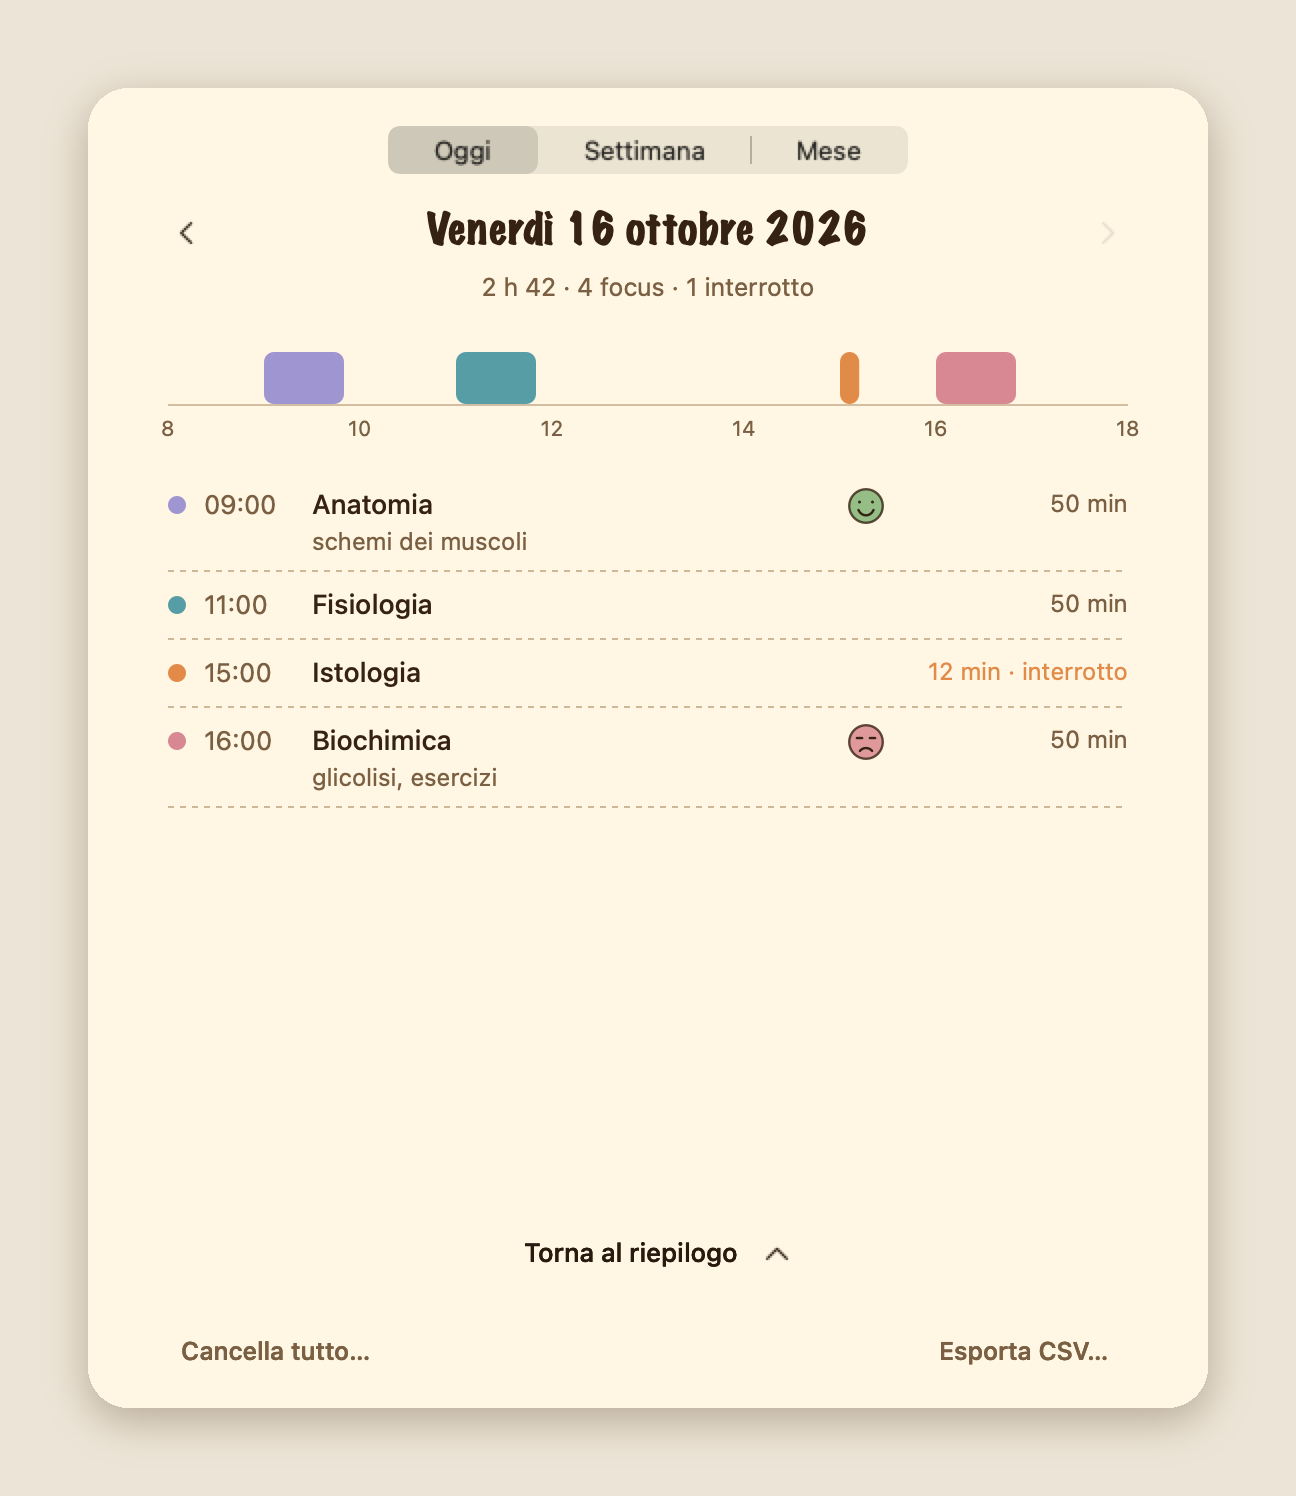
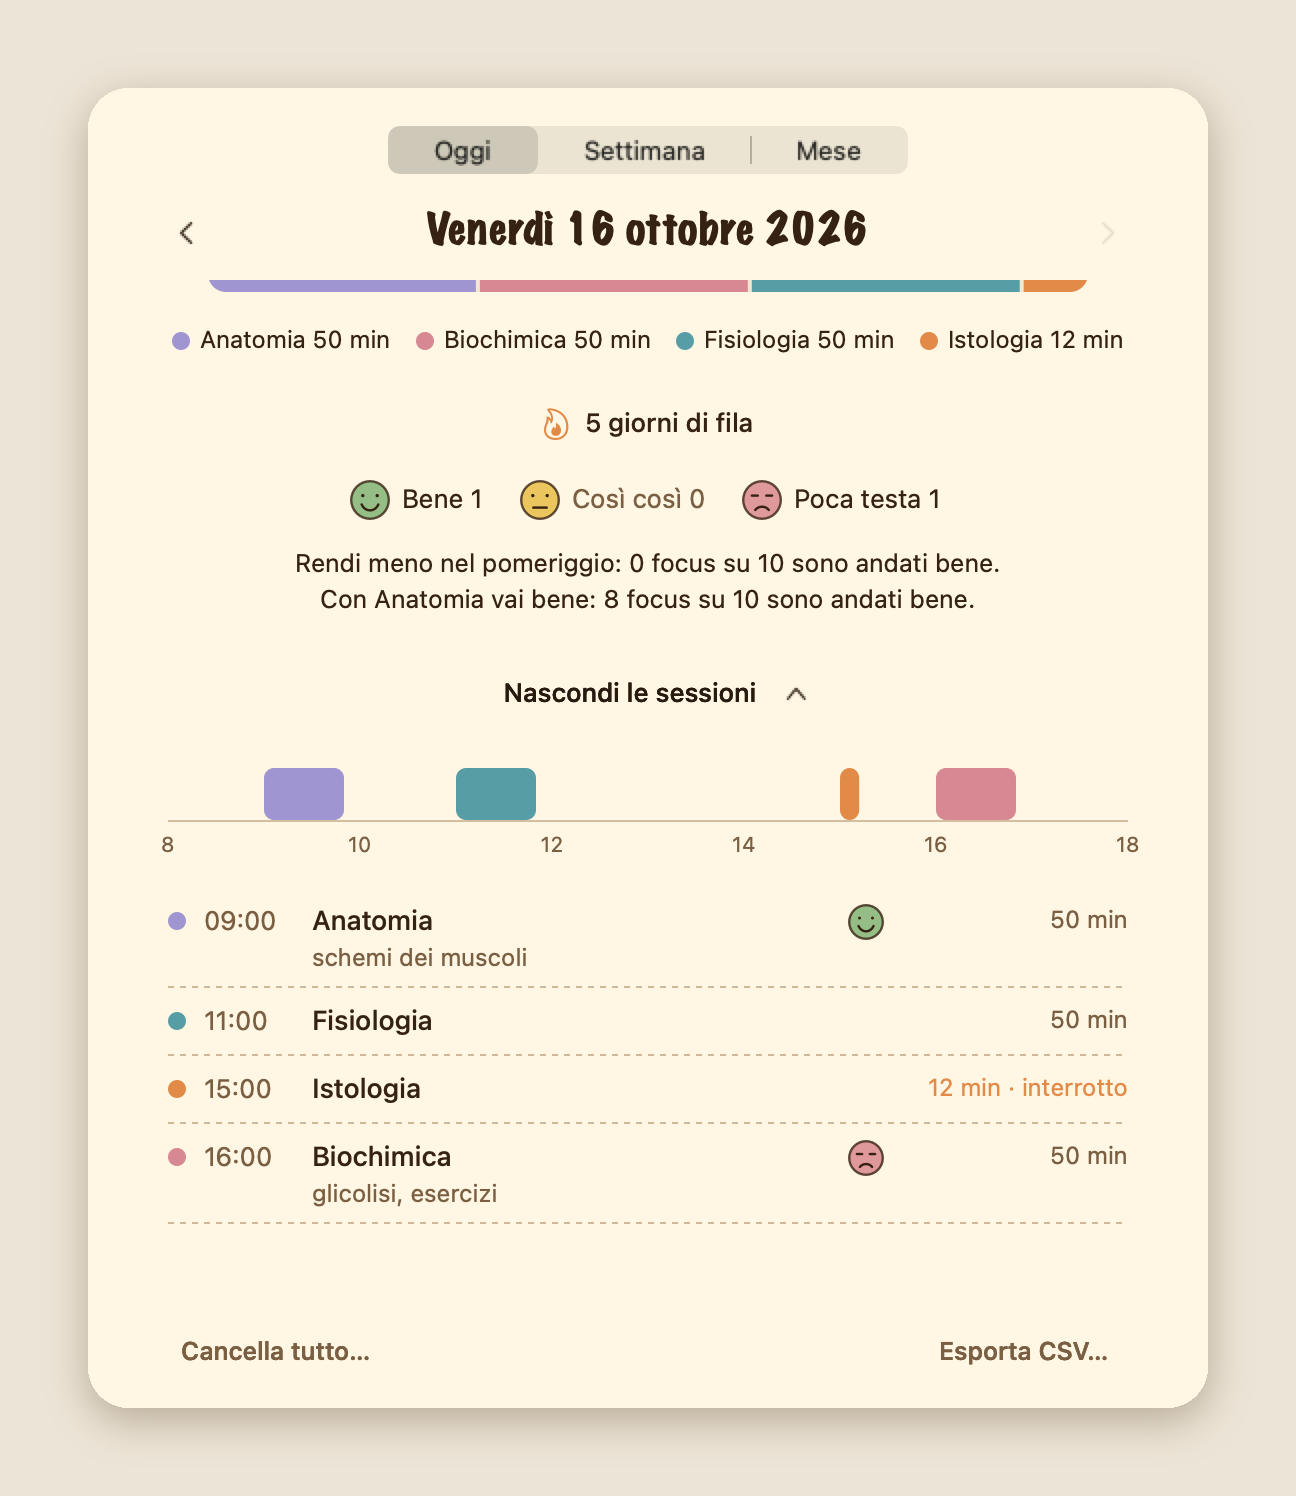
Statistiche: le sessioni in una tendina sotto il riepilogo, nella stessa pagina
- Mostra le sessioni apre la tendina sotto il pulsante, il riepilogo resta sopra
- la finestra resta della stessa altezza: la pagina scorre con la rotella
- schermata del README aggiornata

diff --git a/Sources/FocusFriends/DashboardWindow.swift b/Sources/FocusFriends/DashboardWindow.swift
@@ -15,6 +15,18 @@ private struct SummaryLayout {
     var streakY: CGFloat?
     var reflectY: CGFloat?
     var insightsY: CGFloat?
+    /// Dove finisce il riepilogo (in coordinate della pagina): sotto c'è il pulsante della tendina.
+    var contentEnd: CGFloat = 130
+}
+
+/// La pagina che scorre: il riepilogo, il pulsante della tendina e, aperte, le sessioni.
+private final class PageView: NSView {
+    override var isFlipped: Bool { true }
+    weak var owner: DashboardView?
+
+    override func draw(_ dirtyRect: NSRect) {
+        owner?.drawSummary()
+    }
 }
 
 /// La finestra delle statistiche. Il riepilogo è calmo: un grande numero, una barra con le materie, i giorni di
@@ -37,9 +49,14 @@ final class DashboardView: NSView {
     private var insights: [String] = []
     private var totalRated = 0
     private var layout = SummaryLayout()
-    /// Sta mostrando il diario delle sessioni invece del riepilogo.
+    /// La tendina delle sessioni è aperta (sotto il riepilogo, nella stessa pagina).
     private var showsDiary = false
-    private var diaryScroll: NSScrollView?
+    private let scroll = NSScrollView()
+    private let page = PageView()
+    private var diary: DiaryView?
+    /// Dove comincia la pagina che scorre, nella finestra (sotto l'intestazione).
+    private static let pageTop: CGFloat = 96
+    private static let footerHeight: CGFloat = 56
 
     private let segmented = NSSegmentedControl(labels: ["Oggi", "Settimana", "Mese"], trackingMode: .selectOne, target: nil, action: nil)
     private let previousButton = NSButton()
@@ -87,13 +104,27 @@ final class DashboardView: NSView {
             button.frame = frame
             addSubview(button)
         }
+        // La pagina che scorre (con la rotella) tra l'intestazione e i pulsanti in fondo.
+        let visibleHeight = Self.size.height - Self.pageTop - Self.footerHeight
+        scroll.frame = NSRect(x: 0, y: Self.pageTop, width: width, height: visibleHeight)
+        scroll.hasVerticalScroller = true
+        scroll.autohidesScrollers = true
+        scroll.drawsBackground = false
+        scroll.borderType = .noBorder
+        page.frame = NSRect(x: 0, y: 0, width: width, height: visibleHeight)
+        page.owner = self
+        scroll.documentView = page
+        addSubview(scroll)
+
         let bottom = Self.size.height - 40
         style(deleteButton, "Cancella tutto…", color: Paper.inkLight, action: #selector(deleteEverything),
               frame: NSRect(x: Self.margin - 6, y: bottom, width: 120, height: 24))
         style(exportButton, "Esporta CSV…", color: Paper.inkLight, action: #selector(exportCSV),
               frame: NSRect(x: width - Self.margin - 110, y: bottom, width: 116, height: 24))
-        style(sessionsButton, "Mostra le sessioni", color: Paper.ink, action: #selector(toggleDiary),
-              frame: NSRect(x: (width - 220) / 2, y: Self.size.height - 92, width: 220, height: 28))
+        sessionsButton.isBordered = false
+        sessionsButton.target = self
+        sessionsButton.action = #selector(toggleDiary)
+        page.addSubview(sessionsButton)
 
         log.addObserver { [weak self] in self?.reload() }
         reload()
@@ -114,9 +145,11 @@ final class DashboardView: NSView {
         nextButton.alphaValue = period.contains(today) ? 0.25 : 1
         layout = buildLayout()
         if summary.sessions.isEmpty { showsDiary = false }
-        updateSessionsButton()
-        rebuildDiary()
+        relayoutPage()
+        scroll.contentView.scroll(to: .zero)
+        scroll.reflectScrolledClipView(scroll.contentView)
         needsDisplay = true
+        page.needsDisplay = true
     }
 
     func select(_ newKind: PeriodKind) {
@@ -143,13 +176,46 @@ final class DashboardView: NSView {
 
     @objc private func toggleDiary() {
         showsDiary.toggle()
+        relayoutPage()
+        page.needsDisplay = true
+        // Aperta: lascio un po' di riepilogo in alto e porto le sessioni in vista. Chiusa: resto dentro la pagina.
+        let maxOffset = max(page.frame.height - scroll.contentView.bounds.height, 0)
+        var offset = scroll.contentView.bounds.origin.y
+        if showsDiary { offset = sessionsButton.frame.minY - 96 }
+        scroll.contentView.scroll(to: NSPoint(x: 0, y: min(max(offset, 0), maxOffset)))
+        scroll.reflectScrolledClipView(scroll.contentView)
+    }
+
+    /// Sistema la pagina: il pulsante sotto il riepilogo, la tendina sotto il pulsante, e l'altezza che scorre.
+    private func relayoutPage() {
         updateSessionsButton()
-        rebuildDiary()
-        needsDisplay = true
+        diary?.removeFromSuperview()
+        diary = nil
+        let width = Self.size.width
+        let visibleHeight = Self.size.height - Self.pageTop - Self.footerHeight
+        var end = layout.contentEnd
+        if !summary.sessions.isEmpty {
+            let buttonY = layout.contentEnd + 22
+            sessionsButton.frame.origin = NSPoint(x: (width - sessionsButton.frame.width) / 2, y: buttonY)
+            end = buttonY + 28
+            if showsDiary {
+                let view = DiaryView(sessions: summary.sessions.sorted { $0.startTime(in: calendar) < $1.startTime(in: calendar) },
+                                     kind: kind, calendar: calendar, width: contentWidth + 24)
+                view.onSelect = { [weak self] id in
+                    guard let self, let session = self.log.sessions.first(where: { $0.id == id }) else { return }
+                    self.edit(session)
+                }
+                view.frame.origin = NSPoint(x: Self.margin - 12, y: end + 10)
+                page.addSubview(view)
+                diary = view
+                end = view.frame.maxY
+            }
+        }
+        page.frame = NSRect(x: 0, y: 0, width: width, height: max(visibleHeight, end + 24))
     }
 
     private func updateSessionsButton() {
-        let title = showsDiary ? "Torna al riepilogo" : "Mostra le sessioni"
+        let title = showsDiary ? "Nascondi le sessioni" : "Mostra le sessioni"
         let symbol = showsDiary ? "chevron.up" : "chevron.down"
         sessionsButton.attributedTitle = NSAttributedString(string: title + " ", attributes: [
             .font: NSFont.systemFont(ofSize: 13, weight: .medium), .foregroundColor: Paper.ink,
@@ -160,8 +226,7 @@ final class DashboardView: NSView {
         sessionsButton.isHidden = summary.sessions.isEmpty
         // Largo quanto serve, così la freccia sta vicino alla scritta.
         sessionsButton.sizeToFit()
-        let width = sessionsButton.frame.width + 12
-        sessionsButton.frame = NSRect(x: (Self.size.width - width) / 2, y: Self.size.height - 92, width: width, height: 28)
+        sessionsButton.frame.size = NSSize(width: sessionsButton.frame.width + 12, height: 28)
     }
 
     // MARK: - Testi
@@ -234,7 +299,7 @@ final class DashboardView: NSView {
     private func buildLayout() -> SummaryLayout {
         var l = SummaryLayout()
         guard summary.totalSeconds > 0 else { return l }
-        var y: CGFloat = 226
+        var y: CGFloat = 130
         if kind != .day {
             l.chartTop = y
             y += 56 + 20 + 22
@@ -279,7 +344,9 @@ final class DashboardView: NSView {
         if !insights.isEmpty {
             y += 8
             l.insightsY = y
+            y += CGFloat(insights.count) * 18
         }
+        l.contentEnd = y
         return l
     }
 
@@ -301,25 +368,22 @@ final class DashboardView: NSView {
         text(periodTitle, at: NSRect(x: Self.margin + 30, y: 60, width: width - 2 * Self.margin - 60, height: 26),
              font: Paper.markerFont(20), alignment: .center)
 
-        if showsDiary {
-            text("\(StudyStats.duration(seconds: summary.totalSeconds)) · \(subtitle.replacingOccurrences(of: "di studio · ", with: ""))",
-                 at: NSRect(x: Self.margin, y: 92, width: contentWidth, height: 18),
-                 font: NSFont.systemFont(ofSize: 12.5), color: Paper.inkLight, alignment: .center)
-            return
-        }
+    }
 
+    /// Il riepilogo, disegnato nella pagina che scorre (le coordinate partono dal suo bordo alto).
+    fileprivate func drawSummary() {
         // Il grande numero
         let empty = summary.totalSeconds == 0
         text(empty ? "0 min" : StudyStats.duration(seconds: summary.totalSeconds),
-             at: NSRect(x: Self.margin, y: 104, width: contentWidth, height: 72),
+             at: NSRect(x: Self.margin, y: 8, width: contentWidth, height: 72),
              font: Paper.markerFont(58), color: empty ? Paper.inkLight.withAlphaComponent(0.6) : Paper.ink, alignment: .center)
         if !subtitle.isEmpty {
-            text(subtitle, at: NSRect(x: Self.margin, y: 182, width: contentWidth, height: 20),
+            text(subtitle, at: NSRect(x: Self.margin, y: 86, width: contentWidth, height: 20),
                  font: NSFont.systemFont(ofSize: 14), color: Paper.inkLight, alignment: .center)
         }
         let more = secondary
         if !more.isEmpty {
-            text(more, at: NSRect(x: Self.margin, y: empty ? 182 : 202, width: contentWidth, height: 18),
+            text(more, at: NSRect(x: Self.margin, y: empty ? 86 : 106, width: contentWidth, height: 18),
                  font: NSFont.systemFont(ofSize: 12.5), color: Paper.inkLight.withAlphaComponent(0.85), alignment: .center)
         }
         guard !empty else { return }
@@ -432,28 +496,7 @@ final class DashboardView: NSView {
         }
     }
 
-    // MARK: - Il diario delle sessioni
-
-    private func rebuildDiary() {
-        diaryScroll?.removeFromSuperview()
-        diaryScroll = nil
-        guard showsDiary, !summary.sessions.isEmpty else { return }
-        let diary = DiaryView(sessions: summary.sessions.sorted { $0.startTime(in: calendar) < $1.startTime(in: calendar) },
-                              kind: kind, calendar: calendar, width: contentWidth + 24)
-        diary.onSelect = { [weak self] id in
-            guard let self, let session = self.log.sessions.first(where: { $0.id == id }) else { return }
-            self.edit(session)
-        }
-        let scroll = NSScrollView(frame: NSRect(x: Self.margin - 12, y: 118, width: contentWidth + 24,
-                                                height: Self.size.height - 118 - 100))
-        scroll.hasVerticalScroller = true
-        scroll.autohidesScrollers = true
-        scroll.drawsBackground = false
-        scroll.borderType = .noBorder
-        scroll.documentView = diary
-        addSubview(scroll)
-        diaryScroll = scroll
-    }
+    // MARK: - Modifica di una sessione
 
     private func edit(_ session: StudySession) {
         let alert = NSAlert()

diff --git a/README.md b/README.md
@@ -42,7 +42,7 @@ inganna: così a fine settimana vedi anche *quando* rendi meglio.
 </p>
 
 **Statistiche**: un riepilogo calmo (il totale in grande, le materie in una barra, i giorni di fila e «Com'è andata»)
-e, da «Mostra le sessioni», il diario con la nota e la faccia di ogni focus.
+e, da «Mostra le sessioni», una tendina sotto il riepilogo con la nota e la faccia di ogni focus.
 
 <p align="center">
   <img src="docs/images/statistiche-settimana.png" width="360" alt="Statistiche della settimana">
@@ -211,9 +211,10 @@ tenendo intatta la copia del vecchio in `backup/sessioni-formato1.json`.
 (da lunedì) e **Mese**. Con le frecce si va ai periodi precedenti. Il **riepilogo** è fatto per essere calmo:
 il totale di studio in grande, quanti focus (completi e interrotti), le barre sottili dei giorni (settimana e mese),
 una sola barra a segmenti con le materie e la sua legenda, i giorni di fila e come è andata (con le frasi su
-quando rendi meglio, se ci sono dati sufficienti). Sotto, **Mostra le sessioni** apre il diario: per un giorno,
-una striscia con un blocco colorato per ogni focus sulle ore e l'elenco con ora, materia, nota, faccia e durata;
-per una settimana o un mese, le sessioni sotto il loro giorno (con il totale del giorno). Toccando una sessione si
+quando rendi meglio, se ci sono dati sufficienti). Sotto, **Mostra le sessioni** apre una **tendina nella stessa
+pagina** (il riepilogo resta sopra): per un giorno, una striscia con un blocco colorato per ogni focus sulle ore e
+l'elenco con ora, materia, nota, faccia e durata; per una settimana o un mese, le sessioni sotto il loro giorno (con il
+totale del giorno). La finestra resta della stessa altezza: la pagina scorre con la rotella. Toccando una sessione si
 cambia la materia, la nota e il voto, o la si elimina; *Esporta CSV…* salva tutte le sessioni per un foglio di
 calcolo. I dati restano sul Mac: nessun invio da nessuna parte.
 
